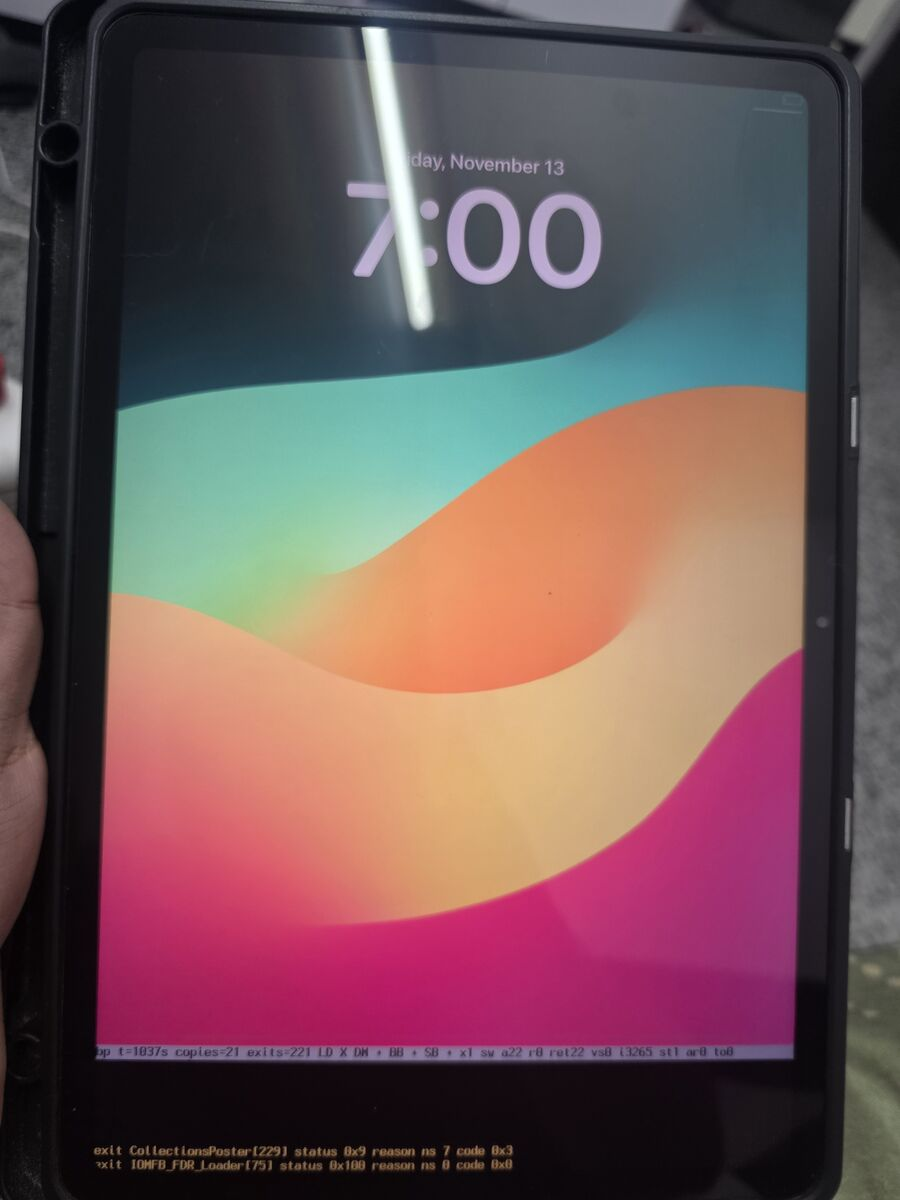
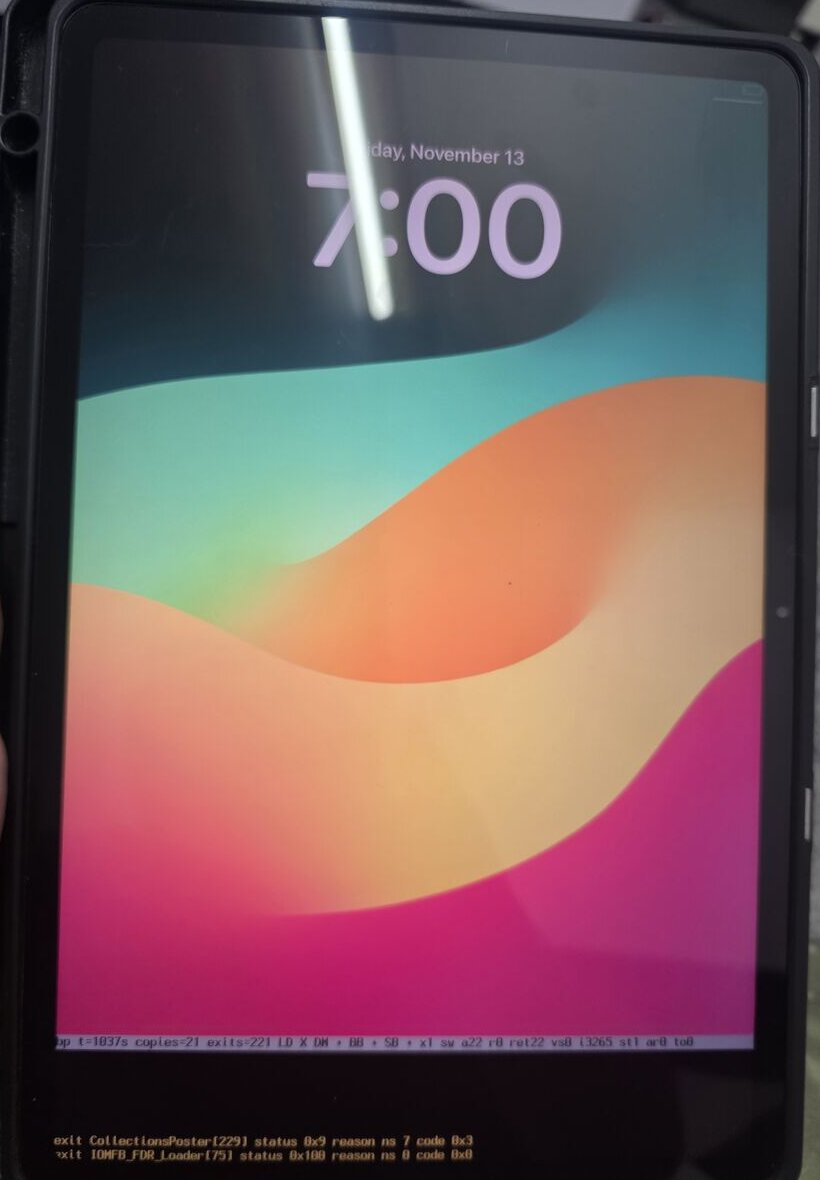
README: cropped, upright photos side by side

diff --git a/README.md b/README.md
@@ -3,9 +3,10 @@
 UniXNU port of iPadOS 17.7.11 (21H461) to the Xiaomi Redmi Pad Pro 5G / POCO Pad 5G ("ruan", SM7435), booted RAM-only
 with `fastboot boot` (nothing is flashed). Status: boots to the **iPadOS 17 home screen** with working touch (Settings opens). About 1 fps without a GPU; icons, buttons and speed are next.
 
-![Lock screen on ruan](docs/img/lockscreen-rb13.jpg)
-
-![Settings > About: iPadOS 17.7.11 on ruan](docs/img/settings-about-rb14f.jpg)
+<p>
+  <img src="docs/img/lockscreen-rb13.jpg" alt="Lock screen on ruan" width="45%">
+  <img src="docs/img/settings-about-rb14f.jpg" alt="Settings > About: iPadOS 17.7.11 on ruan" width="45%">
+</p>
 
 - [docs/IPADOS-BRINGUP.md](docs/IPADOS-BRINGUP.md): every blocker, error text, cause and fix, in order. Start here.
 - [unixnu-ruan/](unixnu-ruan/): the board package (board.toml, XNU patches, kernel-side packages, build scripts, DTS).
